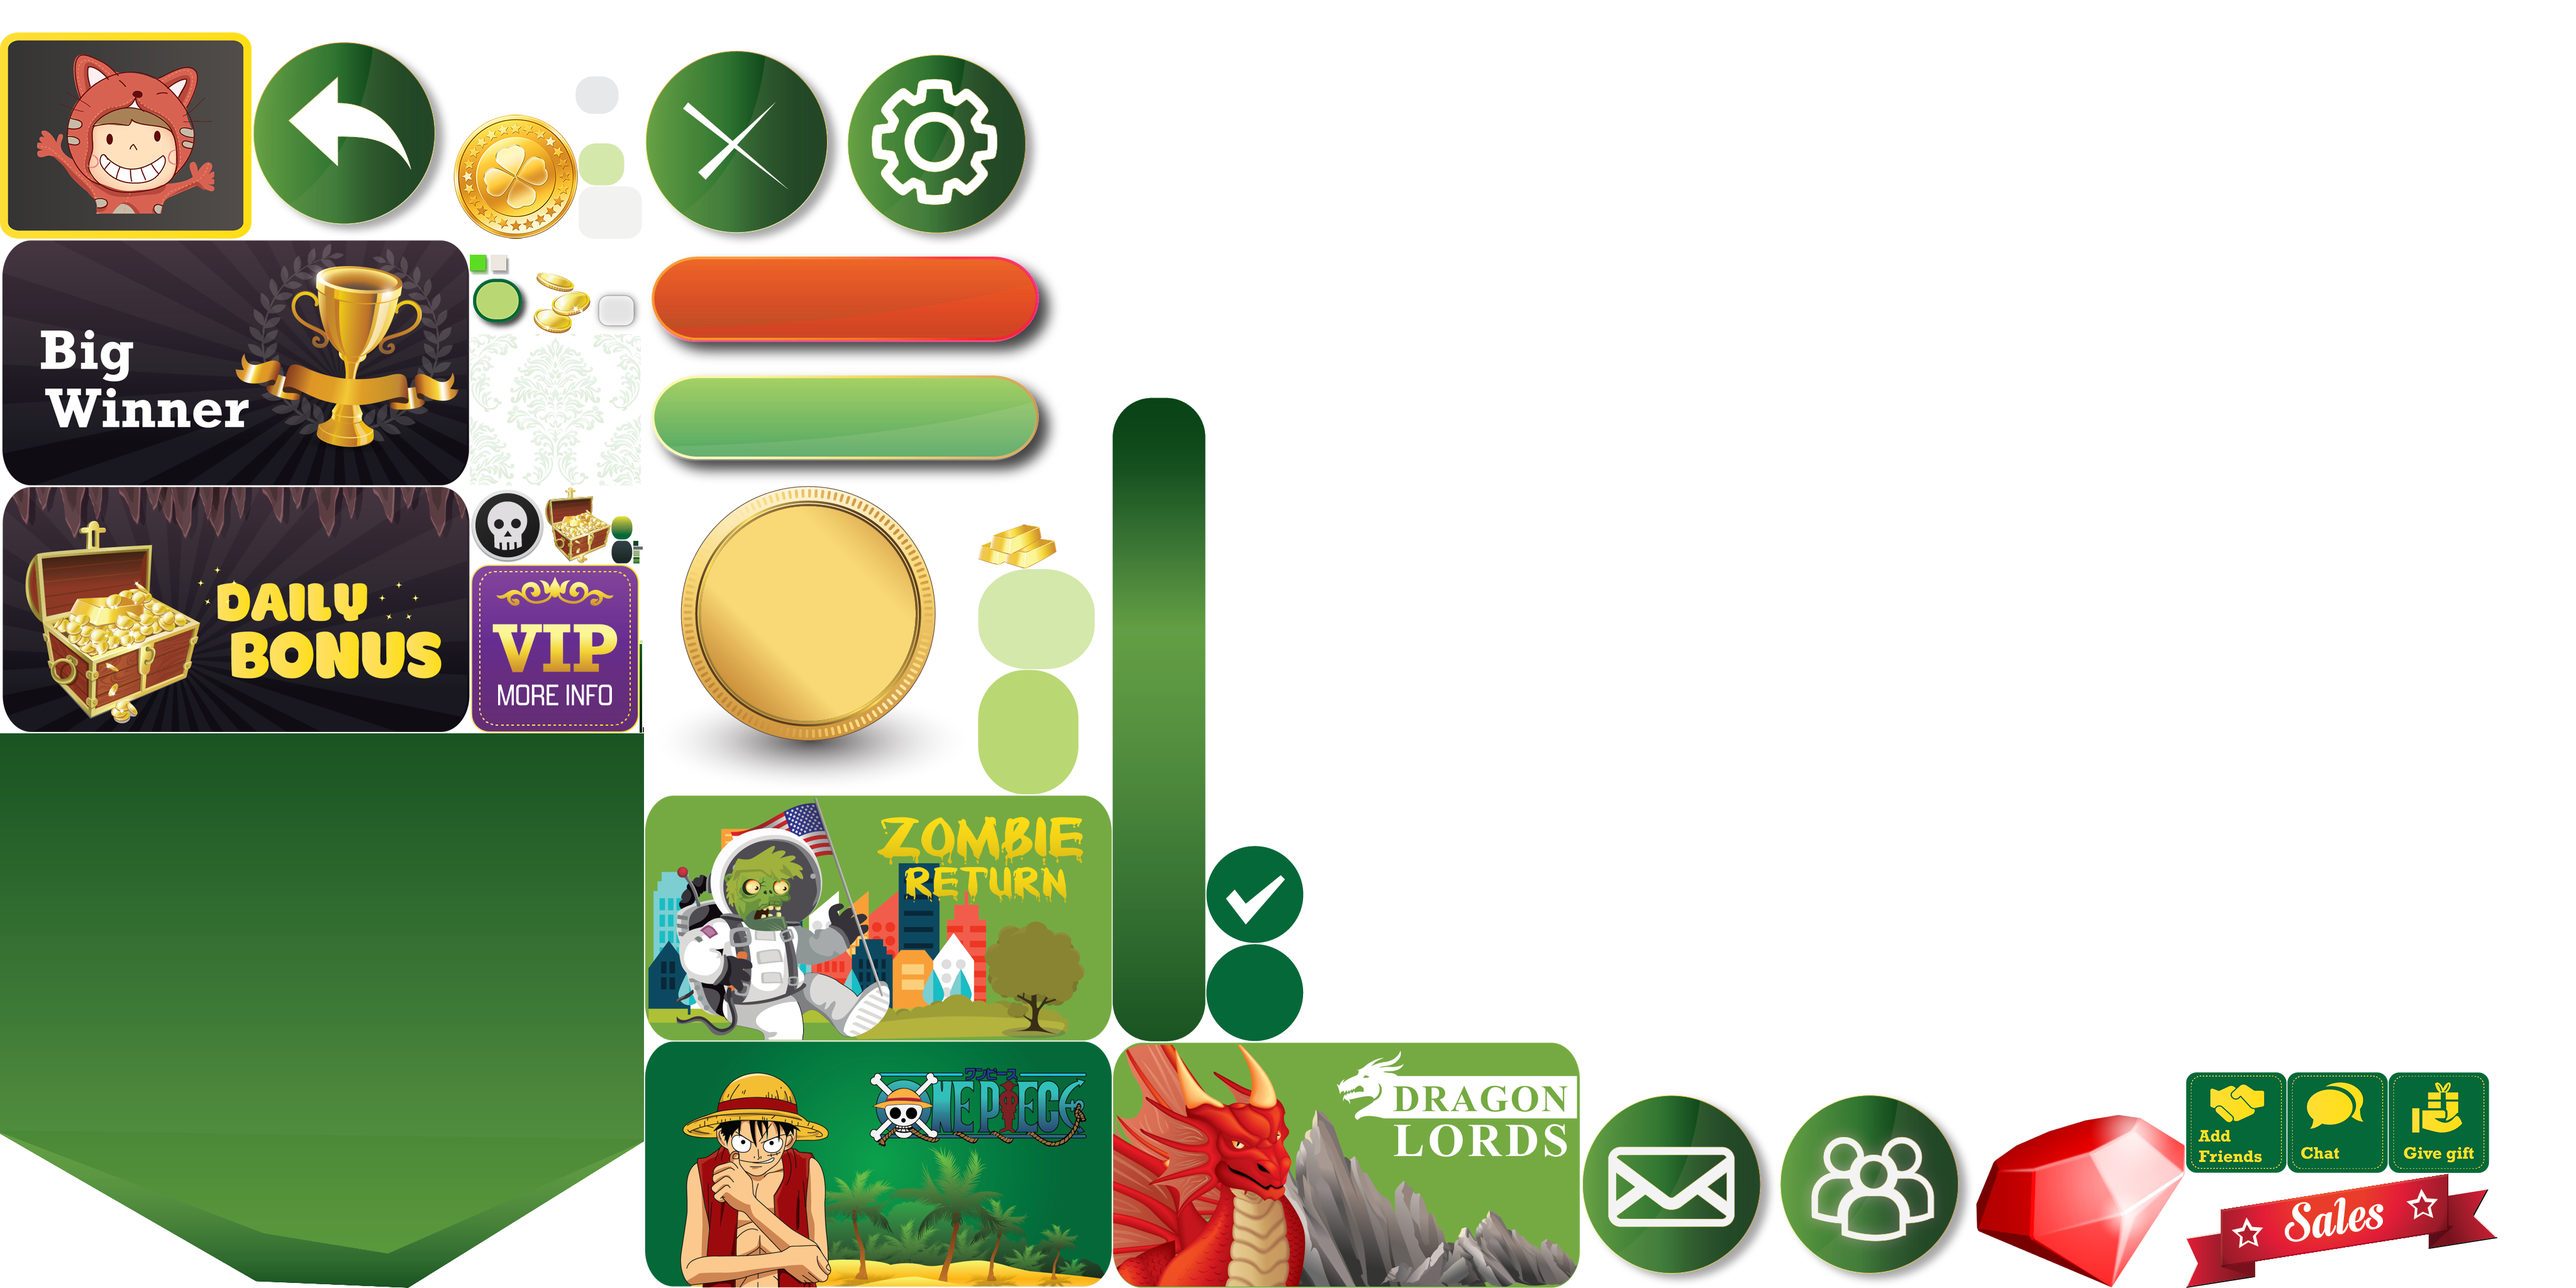
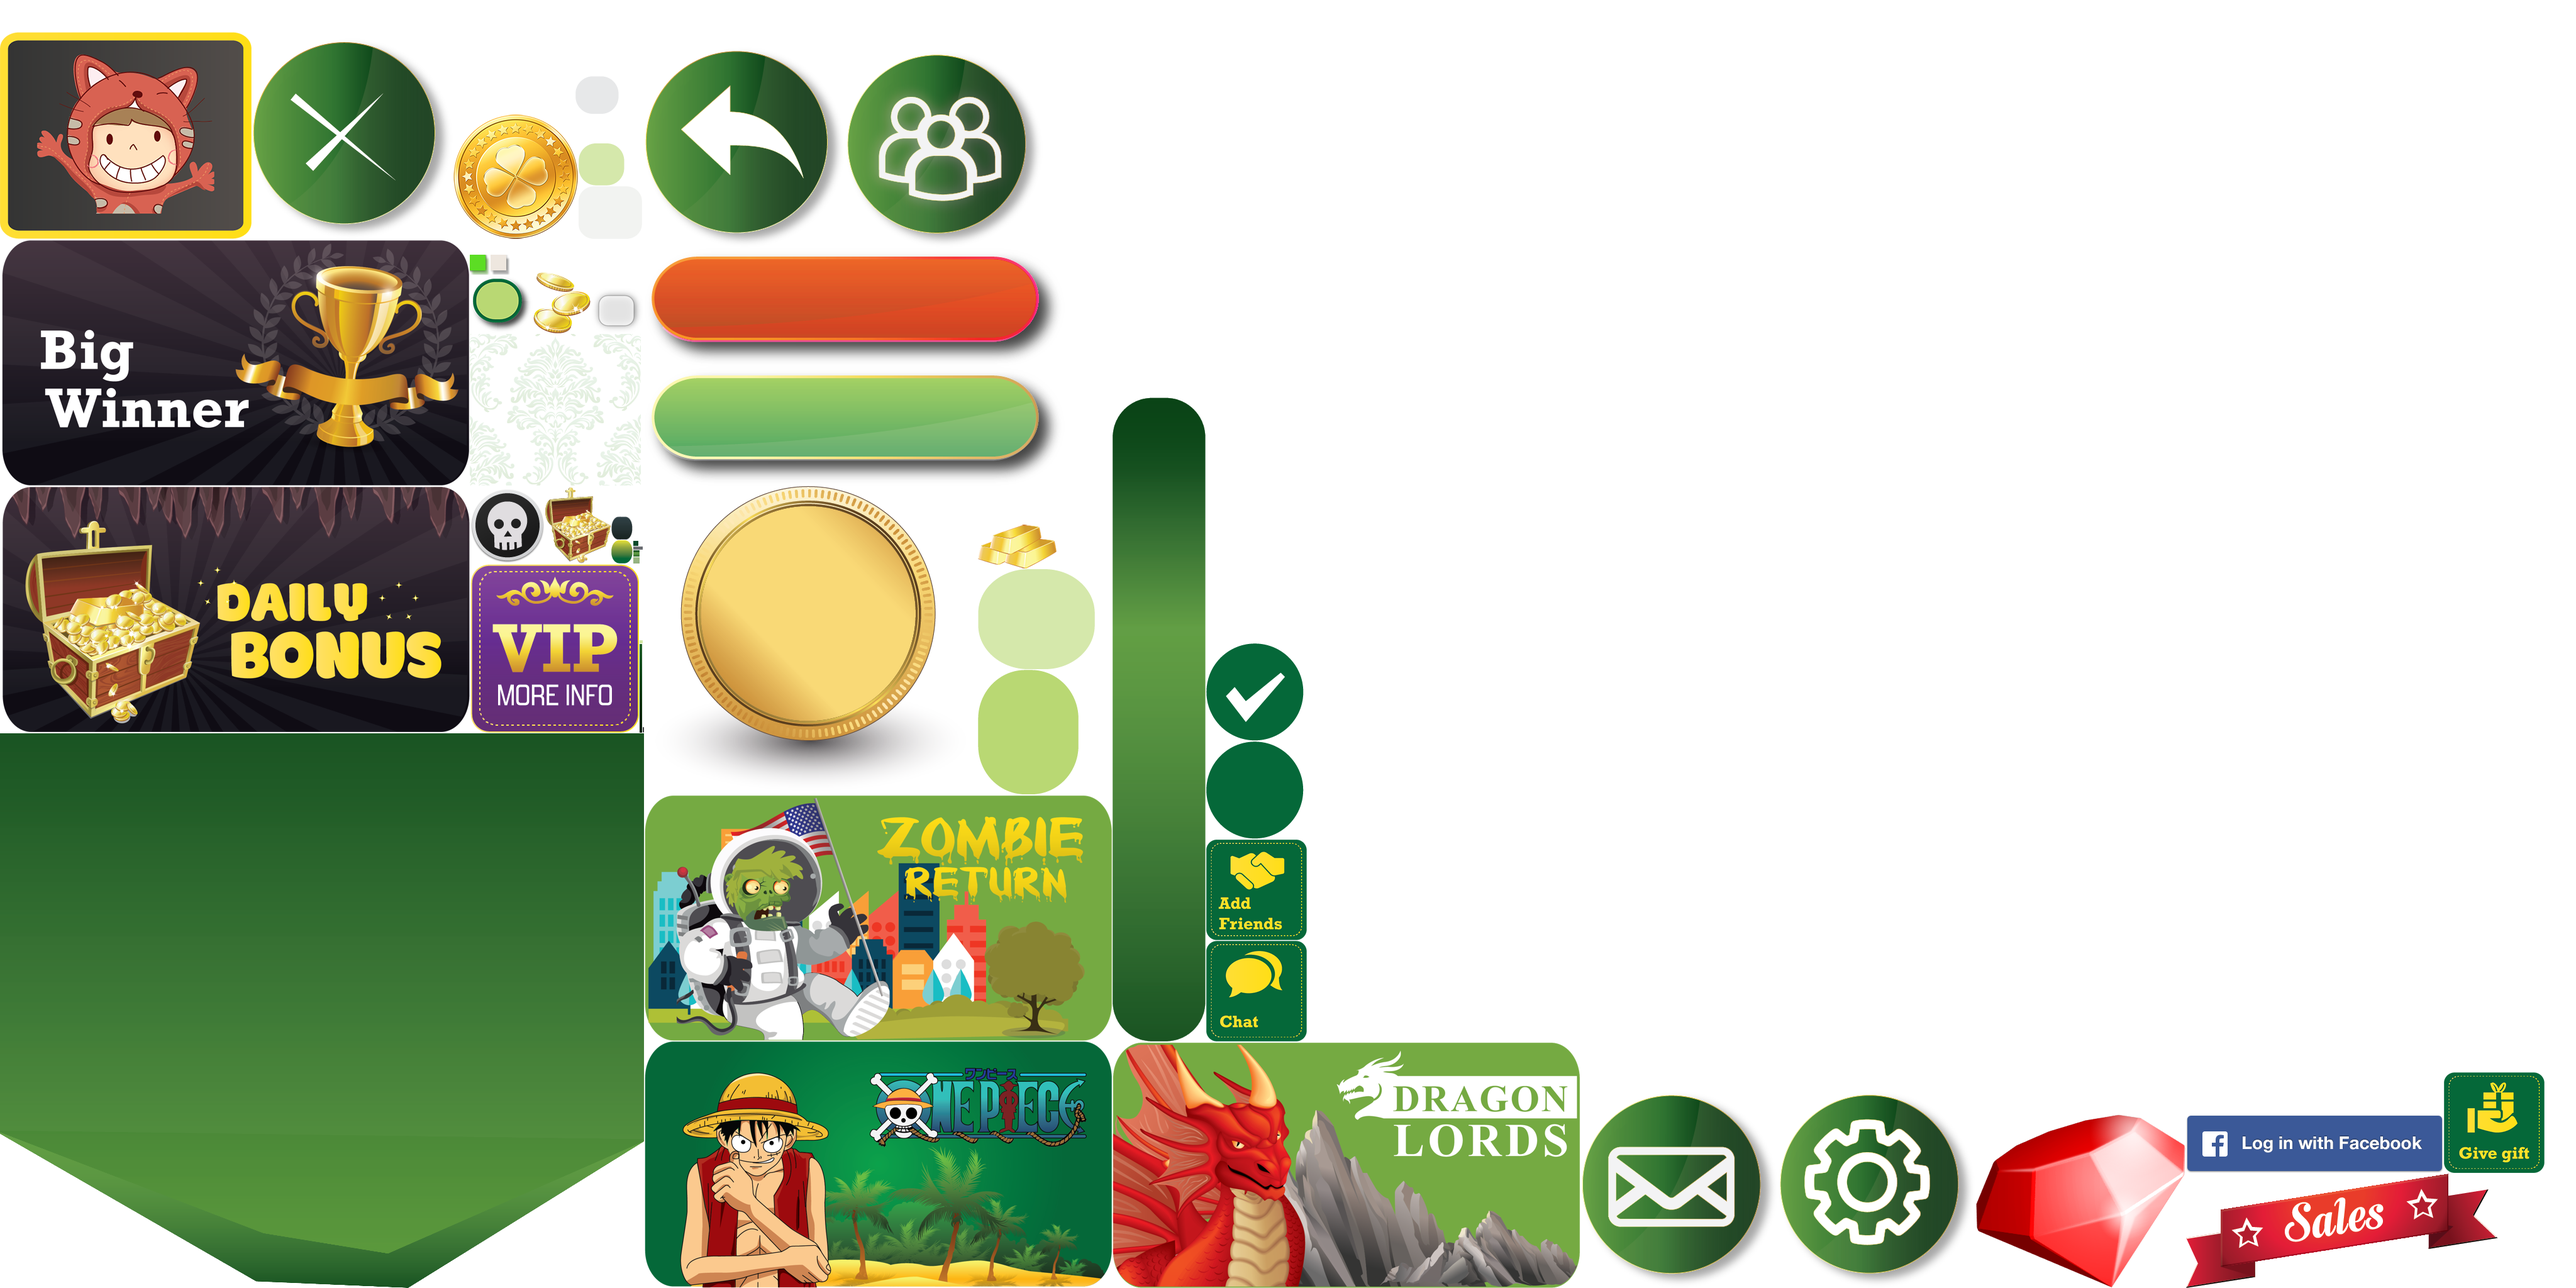
facebook login

diff --git a/Assets/Scripts/Screens/LobbyScreen/LobbyScreen.cs b/Assets/Scripts/Screens/LobbyScreen/LobbyScreen.cs
@@ -4,7 +4,7 @@ using System.Collections;
 public class LobbyScreen : BaseScreen {
 
   public static LobbyScreen Instance;
-
+  public UIButton btnLoginFB;
   public UIButton btnLogin;
   public UIButton btnRegister;
   public UIButton btnPlayAsGuest;
@@ -30,6 +30,8 @@ public class LobbyScreen : BaseScreen {
     EventDelegate.Set(btnRegister.onClick, delegate() { OpenTab(Tab.TabType.REGISTER_TAB); });
     EventDelegate.Set(btnPlayAsGuest.onClick, EventPlayAsGuest);
     EventDelegate.Set(btnSelectGame.onClick, EventMoveToSelectGameScreen);
+    EventDelegate.Set(btnLoginFB.onClick, EventLoginFB);
+		NGUITools.SetActive(btnLoginFB.gameObject, !MyFacebook.Instance.IsLoggedIn);
     // TEST - for test slot game
     // EventDelegate.Set(btnSelectGame.onClick, EventMoveToSlotScreen);
     EventDelegate.Set(btnLogout.onClick, EventLogout);
@@ -38,13 +40,15 @@ public class LobbyScreen : BaseScreen {
     if (SmartfoxClient.Instance.IsLoggedIn) {
       EventLoggedIn();
     }
-    Invoke("TestDropdown", 2.0f);
+		
+		MyFacebook.Instance.Init();
+    // Invoke("TestDropdown", 2.0f);
   }
 
-  void TestDropdown() {
-    HUDManager.Instance.AddFlyText("AAAAAA", Vector3.zero, 40, Color.red);
-    PopupManager.Instance.ShowNotification(string.Empty, "toi dang test");
-  }
+  // void TestDropdown() {
+  //   HUDManager.Instance.AddFlyText("AAAAAA", Vector3.zero, 40, Color.red);
+  //   PopupManager.Instance.ShowNotification(string.Empty, "toi dang test");
+  // }
   
   public override void Open() {
   }
@@ -115,6 +119,10 @@ public class LobbyScreen : BaseScreen {
 		}
 	}
   
+	private void EventLoginFB() {
+		MyFacebook.Instance.Login();
+	}
+	
   private void EventPlayAsGuest() {
     PopupManager.Instance.ShowLoadingPopup("LoadingText_LoginGuest");
     AccountManager.Instance.RegisterAsGuest();
@@ -135,6 +143,7 @@ public class LobbyScreen : BaseScreen {
 		Utils.SetActive(btnSelectGame.gameObject, false);
 		Utils.SetActive(btnLogout.gameObject, false);
 		Utils.SetActive(btnPlayAsGuest.gameObject, true);
+		NGUITools.SetActive(btnLoginFB.gameObject, AccountManager.Instance.fbId == string.Empty);
     buttonGrid.Reposition();
     // userBottomBar.EventUserLoggedOut();
   }
@@ -148,6 +157,7 @@ public class LobbyScreen : BaseScreen {
 		Utils.SetActive(btnPlayAsGuest.gameObject, false);
 		Utils.SetActive(btnSelectGame.gameObject, true);
 		Utils.SetActive(btnLogout.gameObject, true);
+		NGUITools.SetActive(btnLoginFB.gameObject, AccountManager.Instance.fbId == string.Empty);
     buttonGrid.Reposition();
 		Utils.SetActive(loginRegisterPanel, false);
     // userBottomBar.EventUserLoggedIn();

diff --git a/Assets/Scripts/Server/SmartfoxClient.cs b/Assets/Scripts/Server/SmartfoxClient.cs
@@ -91,6 +91,21 @@ public class SmartfoxClient : MonoBehaviour {
     client.Send(new LoginRequest(userId, DEFAULT_PASSWORD, "Gamble", loginData));
   }
 
+	public void LoginUsingFB(string mFBId, string mDisplayName, string mAvatarLink, string mEmail) {
+    JSONObject jsonData = new JSONObject();
+    jsonData.Add("isFBLogin", true);
+    jsonData.Add("guestId", FileManager.GetFromKeyChain("guestId"));
+    jsonData.Add("username", FileManager.GetFromKeyChain("username"));
+    jsonData.Add("password", DEFAULT_PASSWORD);
+    jsonData.Add("displayName", mDisplayName);
+    jsonData.Add("avatar", mAvatarLink);
+    jsonData.Add("email", mEmail);
+		Debug.Log("LoginUsingFB--- " + jsonData.ToString());
+    ISFSObject loginData = new SFSObject();
+    loginData.PutByteArray("jsonData", Utils.ToByteArray(jsonData.ToString()));
+    client.Send(new LoginRequest(mFBId, DEFAULT_PASSWORD, "Gamble", loginData));
+	}
+
   public void LoginUser(string username, string password, bool isManual = true) {
     JSONObject jsonData = new JSONObject();
     jsonData.Add("isRegister", false);
@@ -184,15 +199,17 @@ public class SmartfoxClient : MonoBehaviour {
 	  isLoggedIn = true;
 		ISFSObject loginData = (ISFSObject)e.Params["data"];
 		JSONObject user = JSONObject.Parse(Utils.FromByteArray(loginData.GetByteArray("jsonData")));
+		Debug.Log("OnLogin------ " + user.ToString());
 		AccountManager.Instance.SetUser(user);
 		if (ScreenManager.Instance.LobbyScreen != null) {
 		  ScreenManager.Instance.LobbyScreen.EventLoggedIn();
 		}
 		if (user.GetBoolean("isRegister") || isManualLogin) {
-      bool mIsGuest = user.GetBoolean("isGuest");
+      bool mIsGuest = user.ContainsKey("isGuest") && user.GetBoolean("isGuest");
       string mUsername = user.GetString("username");
 		  FileManager.SaveToKeyChain("username", mUsername);
 		  FileManager.SaveToKeyChain("password", user.GetString("password"));
+		  FileManager.SaveToKeyChain("fbId", AccountManager.Instance.fbId);
 		  FileManager.SaveToKeyChain("isGuest", mIsGuest.ToString());
 		  if (mIsGuest && !isManualLogin) {
 		    FileManager.SaveToKeyChain("guestId", mUsername);
@@ -218,11 +235,14 @@ public class SmartfoxClient : MonoBehaviour {
   
   void OnLogout(BaseEvent e) {
     isLoggedIn = false;
+	  if (AccountManager.Instance != null) {
+	  	AccountManager.Instance.LogOut();
+	  }
     PopupManager.Instance.CloseLoadingPopup();
     if (ScreenManager.Instance.LobbyScreen != null) {
       ScreenManager.Instance.LobbyScreen.EventLogoutSuccess();
     }
-	  
+
     Debug.Log("Log out");
   }
   

diff --git a/Assets/Scripts/Account/AccountManager.cs b/Assets/Scripts/Account/AccountManager.cs
@@ -17,6 +17,11 @@ public class AccountManager : MonoBehaviour {
 	private bool mIsGuest = false;
 	
 	public long lastClaimedDaily = 0;
+	
+	// facebook data
+	public string fbId = string.Empty;
+	public string avatarLink = string.Empty;
+	public string email = string.Empty;
 	// private JSONArray mFriends;
 	
 	public string username {
@@ -69,7 +74,21 @@ public class AccountManager : MonoBehaviour {
 		cash = user.GetInt("cash");
 		bossKilled = user.GetInt("bossKill");
 		lastClaimedDaily = user.GetLong("lastDaily");
+		fbId = user.GetString("facebookId");
+		avatarLink = user.GetString("avatar");
+		Debug.Log("SetUser " + user.ToString());
 		// friends = user.GetArray("friends");
+	}
+	
+	public void LogOut() {
+	  username = string.Empty;
+		password = string.Empty;
+		displayName = string.Empty;
+		cash = 0;
+		bossKilled = 0;
+		lastClaimedDaily = 0;
+		fbId = string.Empty;
+		avatarLink = string.Empty;
 	}
 	
 	public void UpdateUserCash(int updateVal) {
@@ -103,6 +122,11 @@ public class AccountManager : MonoBehaviour {
 	
 	public void RegisterAsGuest() {
 	  SmartfoxClient.Instance.RegisterAsGuest();
+	}
+		
+	// Login or register using facebook
+	public void LoginUsingFB(string mFBId, string mDisplayName, string mAvatarLink, string mEmail) {
+		SmartfoxClient.Instance.LoginUsingFB(mFBId, mDisplayName, mAvatarLink, mEmail);
 	}
 	
   // void HandleErrorCode(ErrorCode.USER errorCode) {

diff --git a/Assets/Scripts/Screens/SelectGameScreen/SelectGameScreen.cs b/Assets/Scripts/Screens/SelectGameScreen/SelectGameScreen.cs
@@ -38,7 +38,7 @@ public class SelectGameScreen : BaseScreen {
     EventDelegate.Set(btnSetting.onClick, EventOpenSetting);
     EventDelegate.Set(btnDailyBonus.onClick, EventClaimDaily);
 		
-		usernameLabel.text = AccountManager.Instance.username;
+		usernameLabel.text = AccountManager.Instance.displayName;
 		UpdateUserCashLabelFinished();
 		killLabel.text = AccountManager.Instance.bossKilled.ToString("N0");
 		
